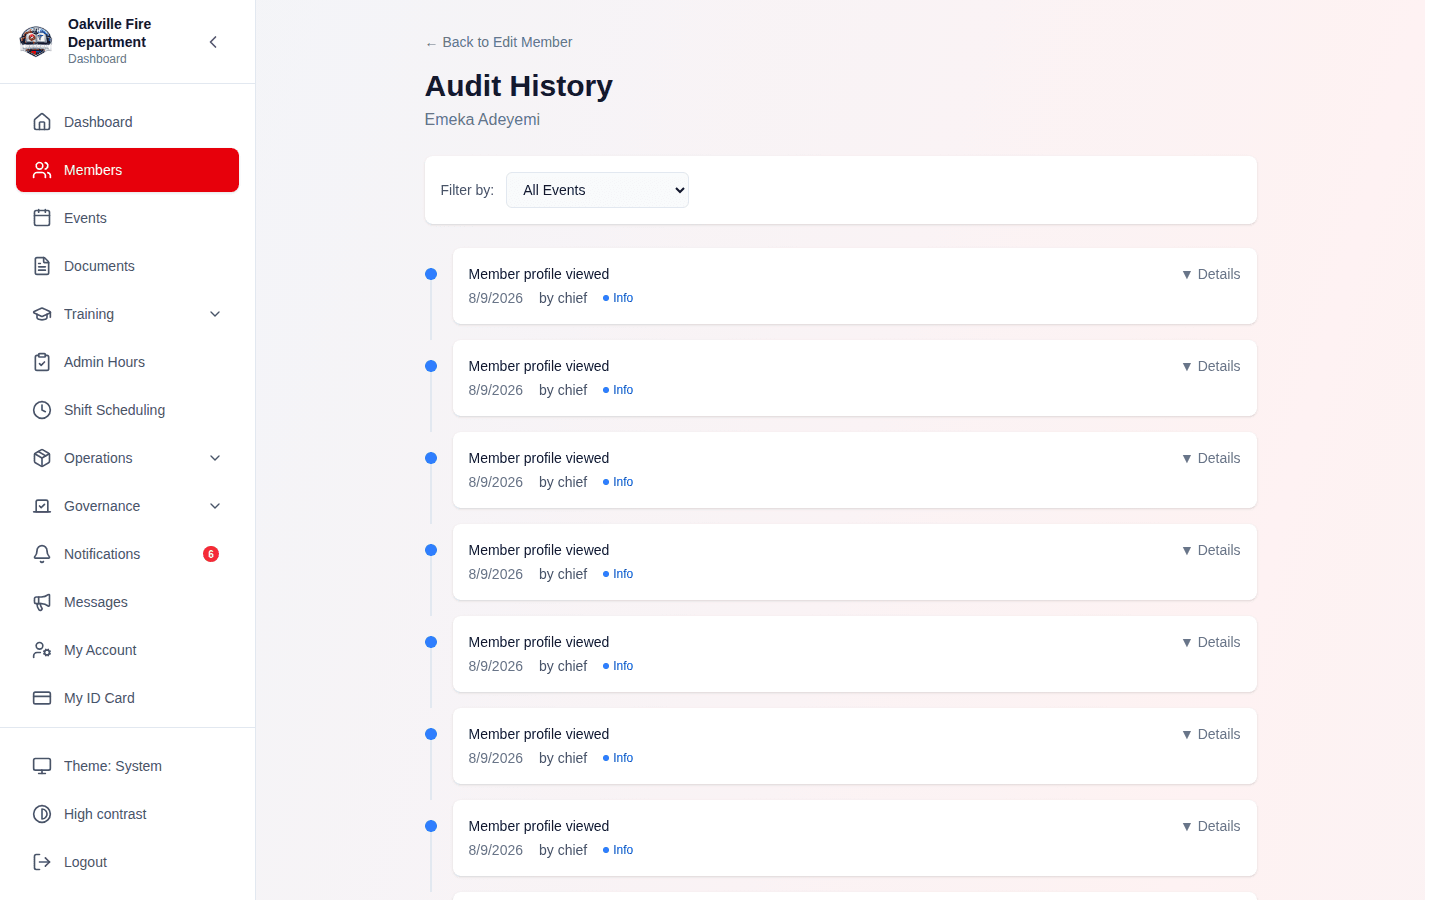
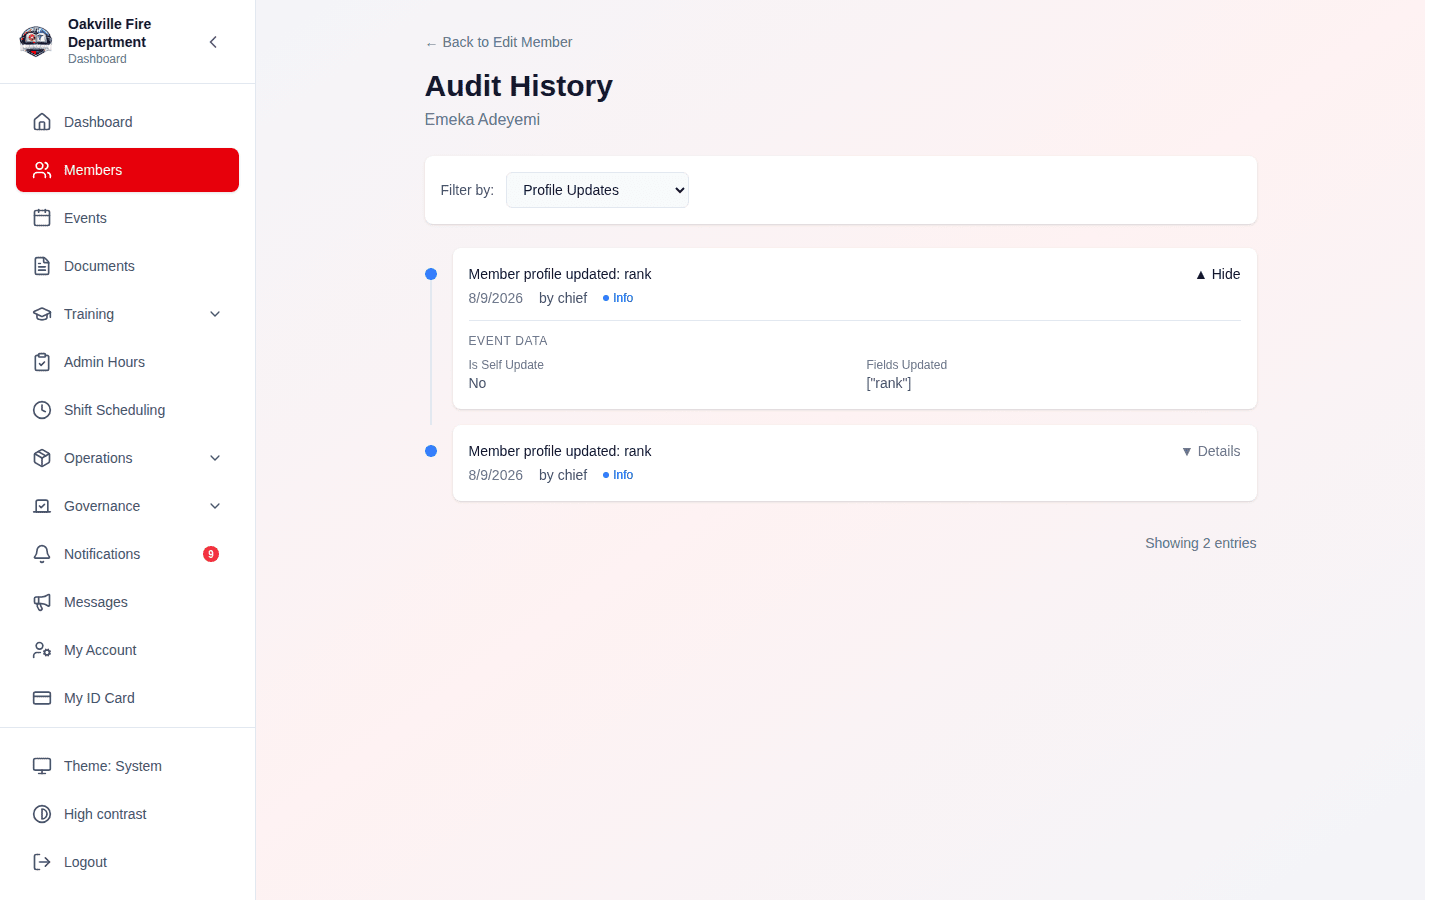
fix(members): an audit filter that could never match, and a details panel of raw ids
The member audit history's **Event Type dropdown was inert**. It speaks a
coarser vocabulary than the stored event types — "Profile Updates" covers
`user_profile_updated`, `user_updated` and the two photo events — but the
endpoint compared the dropdown's value for equality against the stored type.
`profile_update` never equalled `user_profile_updated`, so every option except
"All Events" emptied the page and then advised the reader to clear the filter,
as though the member had no such history. Mapped now, with an unrecognised
value still falling through to an exact match so a caller can name a stored
type directly.

**Logins is gone from the dropdown.** This endpoint returns member-management
events only; a sign-in is not one of them, so that option could never match
anything however the filter was wired. Logins live in the security audit log.

**Expanding an entry showed two raw UUIDs.** The panel dumped `event_data`
verbatim, so opening a rank change displayed the member's id and the editor's
id — 36 characters each, both for people the row already names ("Emeka
Adeyemi" in the header, "by chief" on the entry). Those keys are filtered out,
and an entry left with nothing else to show no longer offers a details toggle
at all.

This unblocks 01-08, held back through several rounds: unfiltered, the timeline
is dominated by "Member profile viewed" — which the capture tooling generates
on every run and which outranks the seeded rank changes by recency — so the
[…]

diff --git a/frontend/src/pages/MemberAuditHistoryPage.tsx b/frontend/src/pages/MemberAuditHistoryPage.tsx
@@ -22,7 +22,7 @@ import type { MemberAuditLogEntry } from '../types/user';
 import type { UserWithRoles } from '../types/role';
 
 type EventTypeFilter =
-  'all' | 'profile_update' | 'status_change' | 'role_change' | 'password_reset' | 'login' | 'membership_change';
+  'all' | 'profile_update' | 'status_change' | 'role_change' | 'password_reset' | 'membership_change';
 
 const EVENT_TYPE_OPTIONS: { value: EventTypeFilter; label: string }[] = [
   { value: 'all', label: 'All Events' },
@@ -30,9 +30,28 @@ const EVENT_TYPE_OPTIONS: { value: EventTypeFilter; label: string }[] = [
   { value: 'status_change', label: 'Status Changes' },
   { value: 'role_change', label: 'Role Changes' },
   { value: 'password_reset', label: 'Password Resets' },
-  { value: 'login', label: 'Logins' },
+  // No "Logins" option: this endpoint only returns member-management events,
+  // and a sign-in is not one of them — the entry could never match anything,
+  // filter bug or not. Logins are in the security audit log.
   { value: 'membership_change', label: 'Membership Changes' },
 ];
+
+/** Event-data keys the expanded panel does not print.
+ *
+ *  Every one of them is the raw id of somebody the row already names — the
+ *  member whose page this is, and the "by <username>" on the entry itself. The
+ *  panel dumped `event_data` verbatim, so opening an entry showed two
+ *  36-character UUIDs and no fact the reader did not already have. */
+const HIDDEN_EVENT_DATA_KEYS = new Set([
+  'updated_user_id',
+  'updated_by',
+  'target_user_id',
+  'viewed_user_id',
+  'deleted_user_id',
+  'new_user_id',
+  'changed_by_user_id',
+  'user_id',
+]);
 
 const SEVERITY_STYLES: Record<string, { dot: string; label: string }> = {
   info: { dot: 'bg-blue-500', label: 'Info' },
@@ -255,7 +274,10 @@ export const MemberAuditHistoryPage: React.FC = () => {
             {entries.map((entry, index) => {
               const severityStyle = getSeverityStyle(entry.severity);
               const isExpanded = expandedEntryIds.has(entry.id);
-              const hasEventData = entry.event_data && Object.keys(entry.event_data).length > 0;
+              const shownEventData = Object.entries(entry.event_data ?? {}).filter(
+                ([key]) => !HIDDEN_EVENT_DATA_KEYS.has(key)
+              );
+              const hasEventData = shownEventData.length > 0;
               const isLast = index === entries.length - 1;
 
               return (
@@ -314,7 +336,7 @@ export const MemberAuditHistoryPage: React.FC = () => {
                             Event Data
                           </p>
                           <div className="grid grid-cols-1 gap-x-6 gap-y-2 sm:grid-cols-2">
-                            {Object.entries(entry.event_data ?? {}).map(([key, value]) => (
+                            {shownEventData.map(([key, value]) => (
                               <div key={key} className="flex flex-col">
                                 <span className="text-theme-text-muted text-xs">{formatEventDataKey(key)}</span>
                                 <span className="text-theme-text-secondary text-sm wrap-break-word">

diff --git a/frontend/src/pages/MemberAuditHistoryPage.test.tsx b/frontend/src/pages/MemberAuditHistoryPage.test.tsx
@@ -1,0 +1,86 @@
+/**
+ * Tests for the member audit history page.
+ *
+ * Two things this pins:
+ *  - the Event Type dropdown offers only filters the endpoint can serve
+ *  - the expanded entry does not print raw ids for people the row already names
+ */
+
+import { describe, it, expect, vi, beforeEach } from 'vitest';
+import { screen } from '@testing-library/react';
+import userEvent from '@testing-library/user-event';
+import { renderWithRouter } from '../test/utils';
+
+const mockGetHistory = vi.fn();
+
+vi.mock('../services/userServices', () => ({
+  userService: {
+    getMemberAuditHistory: (...args: unknown[]) => mockGetHistory(...args) as unknown,
+    getUserWithRoles: vi.fn().mockResolvedValue({ id: 'user-1', full_name: 'Emeka Adeyemi' }),
+  },
+}));
+
+vi.mock('react-router', async () => {
+  const actual = await vi.importActual('react-router');
+  return {
+    ...actual,
+    useNavigate: () => vi.fn(),
+    useParams: () => ({ userId: 'user-1' }),
+  };
+});
+
+import MemberAuditHistoryPage from './MemberAuditHistoryPage';
+
+const entry = {
+  id: 1,
+  timestamp: '2026-08-09T14:30:00Z',
+  event_type: 'user_profile_updated',
+  severity: 'info',
+  description: 'Member profile updated: rank',
+  changed_by_username: 'chief',
+  event_data: {
+    updated_user_id: 'a8c2c854-7bb9-458c-bba4-dd99d88e5167',
+    updated_by: '256605cb-e6e5-4183-aae9-23bb9eecd7ea',
+    is_self_update: false,
+    fields_updated: ['rank'],
+  },
+};
+
+describe('MemberAuditHistoryPage', () => {
+  beforeEach(() => {
+    vi.clearAllMocks();
+    mockGetHistory.mockResolvedValue([entry]);
+  });
+
+  // A sign-in is not a member-management event, so this endpoint never returns
+  // one — the option could only ever produce an empty list.
+  it('offers no Logins filter', async () => {
+    renderWithRouter(<MemberAuditHistoryPage />);
+
+    expect(await screen.findByLabelText(/filter/i)).toBeInTheDocument();
+    expect(screen.queryByRole('option', { name: 'Logins' })).not.toBeInTheDocument();
+    expect(screen.getByRole('option', { name: 'Profile Updates' })).toBeInTheDocument();
+  });
+
+  it('does not print raw ids for people the entry already names', async () => {
+    const user = userEvent.setup();
+    renderWithRouter(<MemberAuditHistoryPage />);
+
+    await user.click(await screen.findByRole('button', { name: /expand details/i }));
+
+    expect(screen.getByText('Fields Updated')).toBeInTheDocument();
+    expect(screen.queryByText(/a8c2c854-7bb9-458c-bba4-dd99d88e5167/)).not.toBeInTheDocument();
+    expect(screen.queryByText(/256605cb-e6e5-4183-aae9-23bb9eecd7ea/)).not.toBeInTheDocument();
+  });
+
+  it('offers no details toggle when nothing is left to show', async () => {
+    mockGetHistory.mockResolvedValue([
+      { ...entry, event_data: { updated_user_id: 'a8c2c854', updated_by: '256605cb' } },
+    ]);
+
+    renderWithRouter(<MemberAuditHistoryPage />);
+
+    expect(await screen.findByText('Member profile updated: rank')).toBeInTheDocument();
+    expect(screen.queryByRole('button', { name: /expand details/i })).not.toBeInTheDocument();
+  });
+});

diff --git a/backend/tests/test_member_audit_history_filter.py b/backend/tests/test_member_audit_history_filter.py
@@ -1,0 +1,77 @@
+"""
+Tests for the member audit history's Event Type filter.
+
+The page's dropdown speaks a coarser vocabulary than the stored event types:
+"Profile Updates" covers `user_profile_updated`, `user_updated` and the two
+photo events. The endpoint compared the dropdown's value for equality against
+the stored type, so `profile_update` never equalled `user_profile_updated` and
+every option except "All Events" emptied the page — then told the reader to
+clear the filter, as though the member simply had no such history.
+
+Pure mapping assertions; no database.
+"""
+
+import pytest
+
+from app.api.v1.endpoints.users import (
+    _AUDIT_EVENT_DESCRIPTIONS,
+    _AUDIT_EVENT_FILTERS,
+)
+
+# The values MemberAuditHistoryPage's dropdown can send, minus "all" (which
+# skips the filter entirely).
+DROPDOWN_VALUES = [
+    "profile_update",
+    "status_change",
+    "role_change",
+    "password_reset",
+    "membership_change",
+]
+
+
+@pytest.mark.parametrize("value", DROPDOWN_VALUES)
+def test_every_dropdown_value_maps_to_something(value):
+    assert _AUDIT_EVENT_FILTERS.get(value), f"{value} matches no stored event type"
+
+
+@pytest.mark.parametrize("value", DROPDOWN_VALUES)
+def test_mapped_types_are_types_the_endpoint_returns(value):
+    """A mapping onto a type outside the whitelist would still match nothing."""
+    for stored in _AUDIT_EVENT_FILTERS[value]:
+        assert (
+            stored in _AUDIT_EVENT_DESCRIPTIONS
+        ), f"{value} maps to {stored}, which this endpoint never returns"
+
+
+def test_profile_updates_covers_the_photo_events():
+    # A photo change is a profile update to everyone except the audit log,
+    # which records it under its own type.
+    mapped = _AUDIT_EVENT_FILTERS["profile_update"]
+    assert "user_profile_updated" in mapped
+    assert "user_photo_updated" in mapped
+    assert "user_photo_removed" in mapped
+
+
+def test_status_changes_cover_leave_of_absence():
+    mapped = _AUDIT_EVENT_FILTERS["status_change"]
+    assert "member_status_changed" in mapped
+    assert "leave_of_absence_created" in mapped
+
+
+def test_no_filter_maps_to_logins():
+    """The dropdown must not offer a filter this endpoint cannot serve.
+
+    Sign-ins are not member-management events and are not in the whitelist, so
+    a "Logins" option would be permanently empty however the filter is wired.
+    """
+    assert "login" not in _AUDIT_EVENT_FILTERS
+    assert not any(
+        "login" in stored
+        for mapped in _AUDIT_EVENT_FILTERS.values()
+        for stored in mapped
+    )
+
+
+def test_unknown_value_is_left_to_exact_match():
+    """A caller naming a stored type directly still works."""
+    assert _AUDIT_EVENT_FILTERS.get("user_viewed") is None

diff --git a/backend/app/api/v1/endpoints/users.py b/backend/app/api/v1/endpoints/users.py
@@ -2003,6 +2003,31 @@ _AUDIT_EVENT_DESCRIPTIONS = {
     "leave_of_absence_deleted": "Leave of absence deactivated",
 }
 
+# The audit page's Event Type dropdown speaks a coarser vocabulary than the
+# stored event types — one entry covers several. Selecting "Profile Updates"
+# sent "profile_update", which was compared for equality against the stored
+# "user_profile_updated" and matched nothing, so every option except "All
+# Events" emptied the page and told the reader to clear the filter.
+_AUDIT_EVENT_FILTERS: dict[str, list[str]] = {
+    "profile_update": [
+        "user_profile_updated",
+        "user_updated",
+        "user_photo_updated",
+        "user_photo_removed",
+    ],
+    "status_change": [
+        "member_status_changed",
+        "member_archived",
+        "member_reactivated",
+        "leave_of_absence_created",
+        "leave_of_absence_updated",
+        "leave_of_absence_deleted",
+    ],
+    "role_change": ["user_role_assigned", "user_role_removed"],
+    "password_reset": ["admin_password_reset"],
+    "membership_change": ["membership_type_changed"],
+}
+
 
 @router.get("/{user_id}/audit-history", response_model=list[MemberAuditLogEntry])
 async def get_member_audit_history(
@@ -2064,7 +2089,11 @@ async def get_member_audit_history(
     )
 
     if event_type:
-        query = query.where(AuditLog.event_type == event_type)
+        # An unrecognised value falls through to an exact match, so a caller
+        # naming a stored type directly still works.
+        query = query.where(
+            AuditLog.event_type.in_(_AUDIT_EVENT_FILTERS.get(event_type, [event_type]))
+        )
 
     # Paginate
     offset = (page - 1) * page_size

diff --git a/docs/training/01-membership.md b/docs/training/01-membership.md
@@ -299,12 +299,21 @@ Navigate to **Members > Admin**, click on a member, then click **History** to vi
 The audit history page shows a chronological list of all changes made to a member's record, including:
 
 - **What changed** - Which field was modified (e.g., rank, status, station)
-- **Old value → New value** - The before and after values
 - **Who made the change** - The user who performed the edit
 - **When** - Timestamp of the change
+- **Details** - Expands the entry to show the rest of what was recorded
 
-> **Screenshot placeholder:**
-> _[Screenshot of the Member Audit History page showing a timeline of changes with entries like "Rank changed from 'Firefighter' to 'Lieutenant' by John Smith on 2026-02-15 14:30"]_
+**Before and after values are shown for status and membership-type changes**
+("Status changed: probationary → active"), which record both. A profile field
+edit records _which_ fields were touched, not what they were before — so a rank
+change reads "Member profile updated: rank" and the Details panel names the
+field, but the previous rank is not kept.
+
+Use **Filter by** to narrow the list. This matters more than it sounds: viewing
+a member's page is itself an audited event, so an unfiltered history is mostly
+"Member profile viewed" and the edits are buried among them.
+
+![Member audit history filtered to profile updates, showing what changed and who changed it](./images/01-08-member-audit-history.png)
 
 > **Note:** Audit entries are only created for changes made after the audit history feature was deployed. Earlier changes will not appear in the history.
 

diff --git a/docs/training/SCREENSHOT_STATUS.md b/docs/training/SCREENSHOT_STATUS.md
@@ -9,12 +9,12 @@ image still matches the application is tracked by hand in
 [SCREENSHOT_CURRENCY.md](./SCREENSHOT_CURRENCY.md) — this file is
 regenerated wholesale, so that audit cannot live here.
 
-**272 of 493 placeholders filled** (221 remaining).
+**273 of 493 placeholders filled** (220 remaining).
 
 | Guide | Captured | Remaining |
 |-------|---------:|----------:|
 | [00-getting-started.md](./00-getting-started.md) | 11 | 2 |
-| [01-membership.md](./01-membership.md) | 9 | 20 |
+| [01-membership.md](./01-membership.md) | 10 | 19 |
 | [02-training.md](./02-training.md) | 38 | 45 |
 | [03-scheduling.md](./03-scheduling.md) | 31 | 40 |
 | [04-events-meetings.md](./04-events-meetings.md) | 20 | 23 |
@@ -32,5 +32,5 @@ regenerated wholesale, so that audit cannot live here.
 | [16-integrations.md](./16-integrations.md) | 4 | 8 |
 | [17-privacy-data-rights.md](./17-privacy-data-rights.md) | 2 | 0 |
 | [18-storefront.md](./18-storefront.md) | 4 | 1 |
-| **Total** | **272** | **221** |
+| **Total** | **273** | **220** |
 
